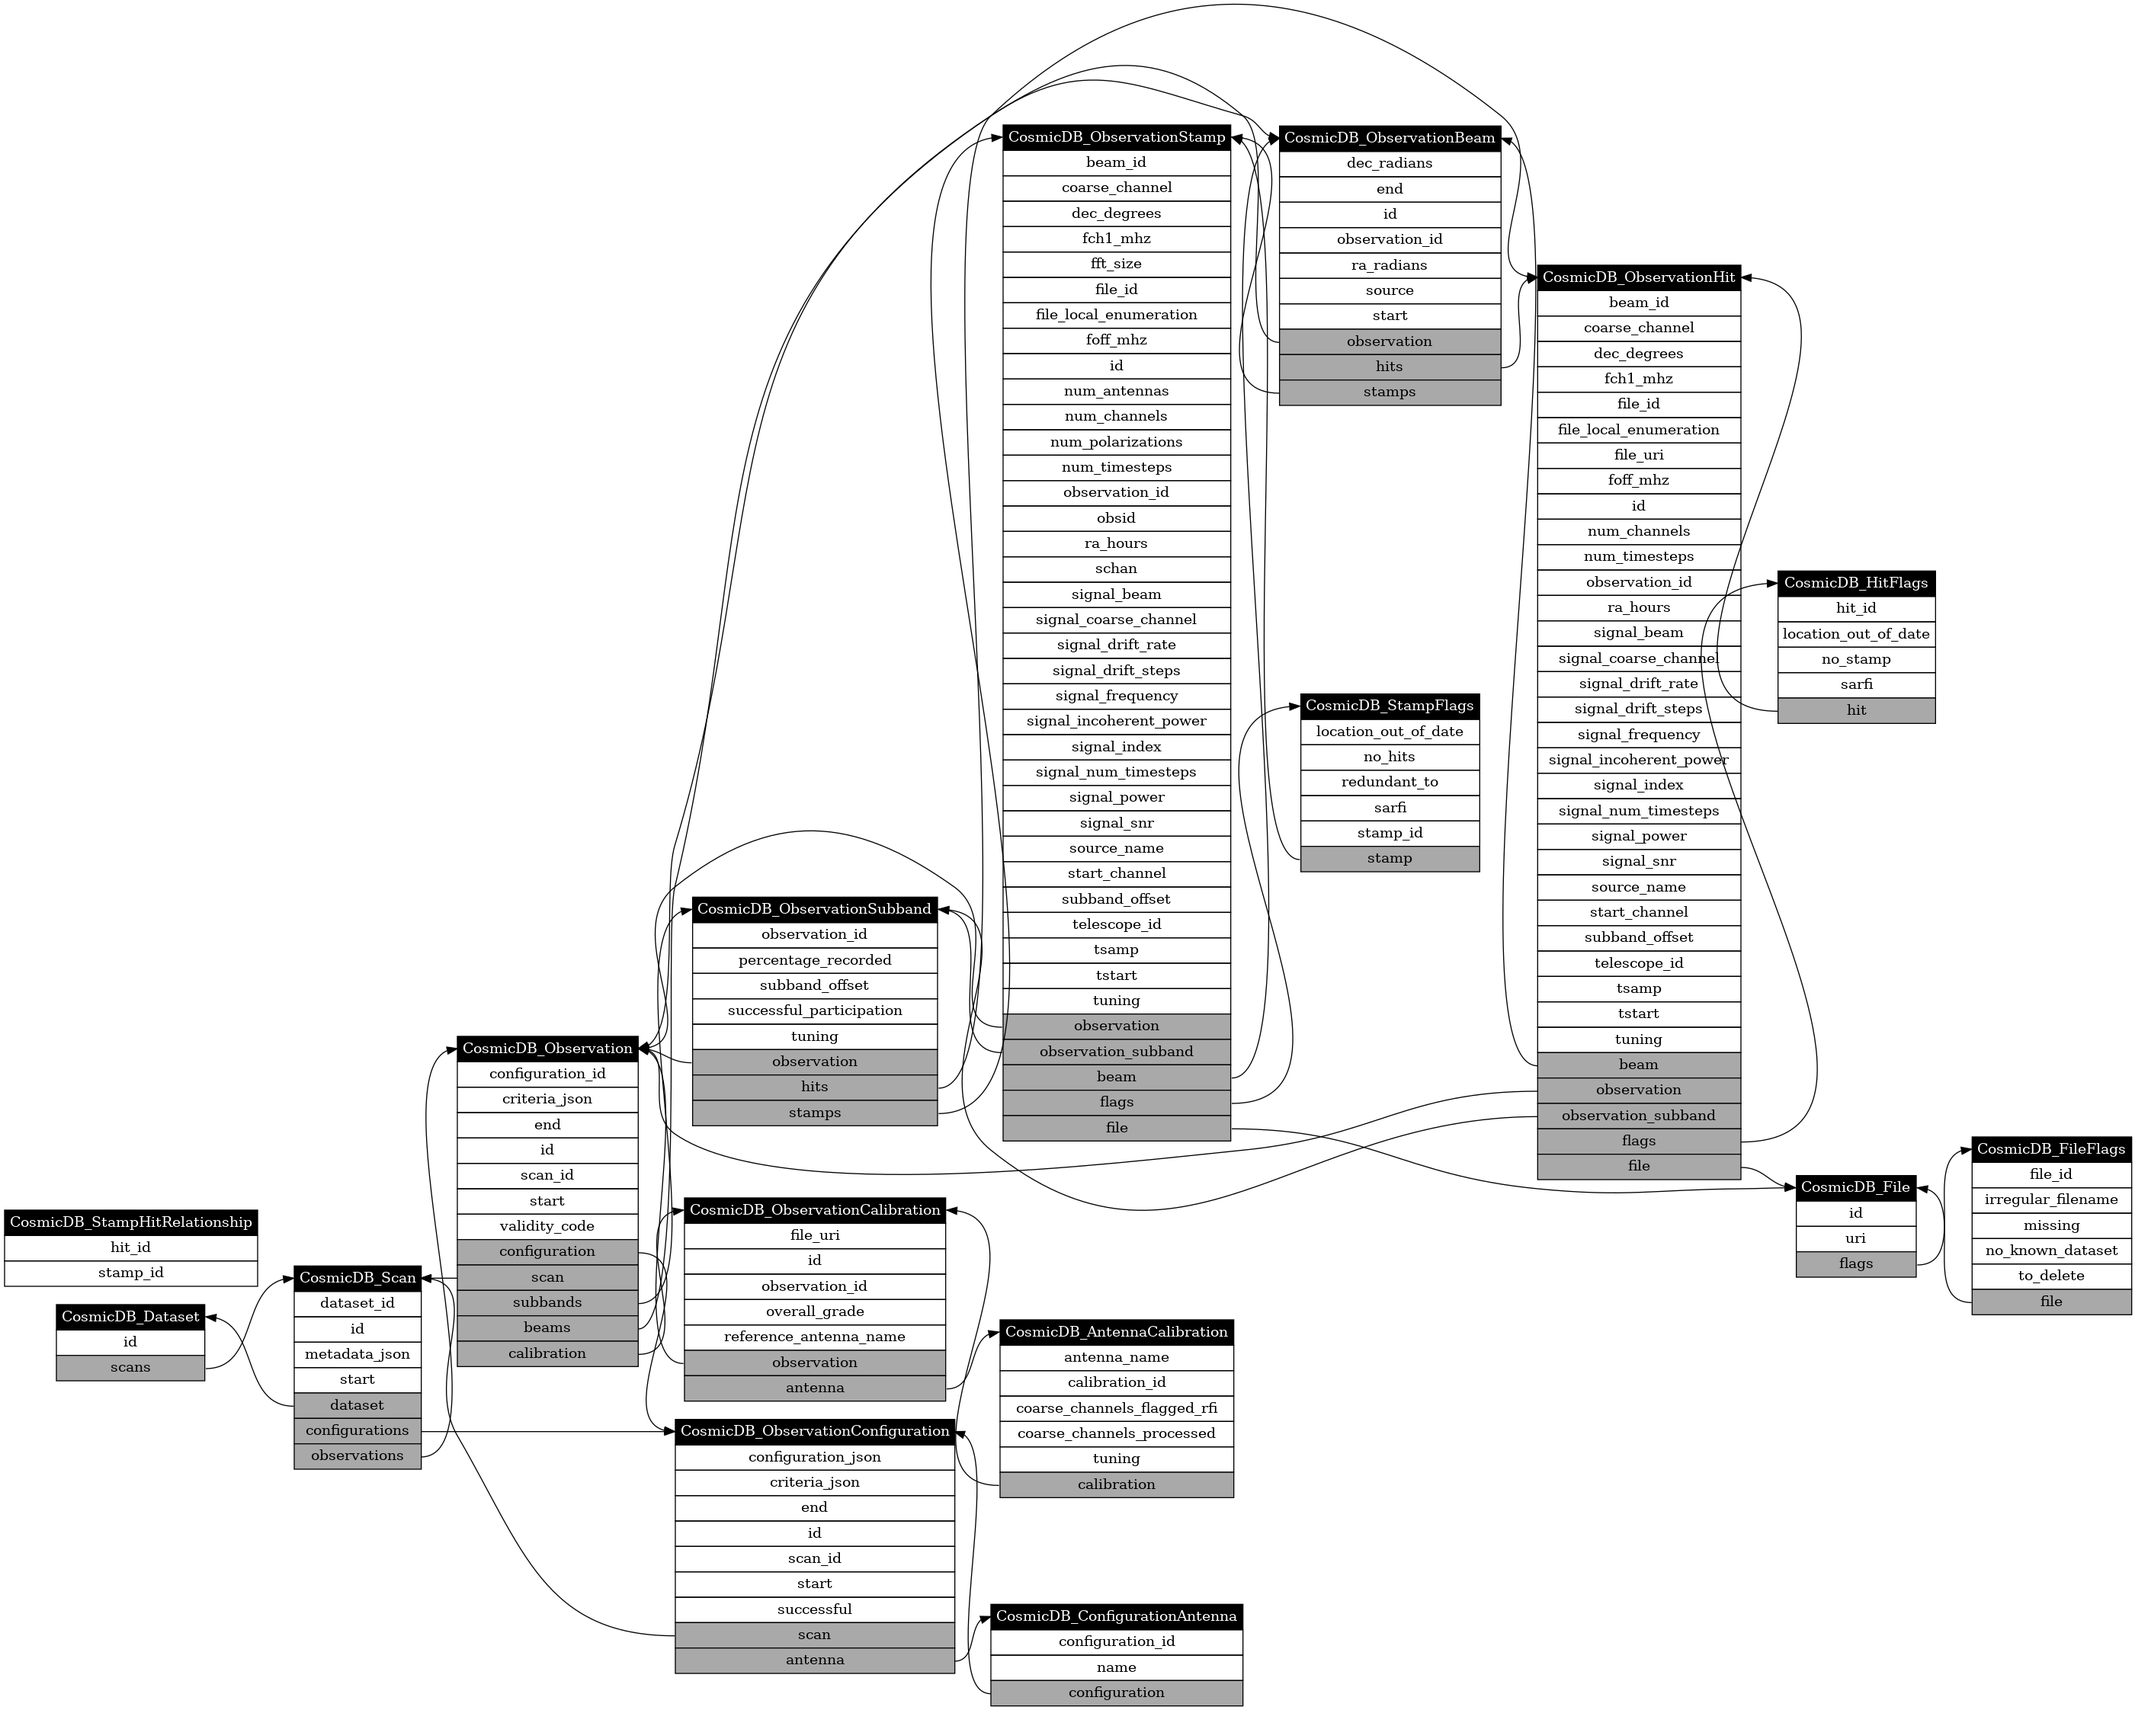
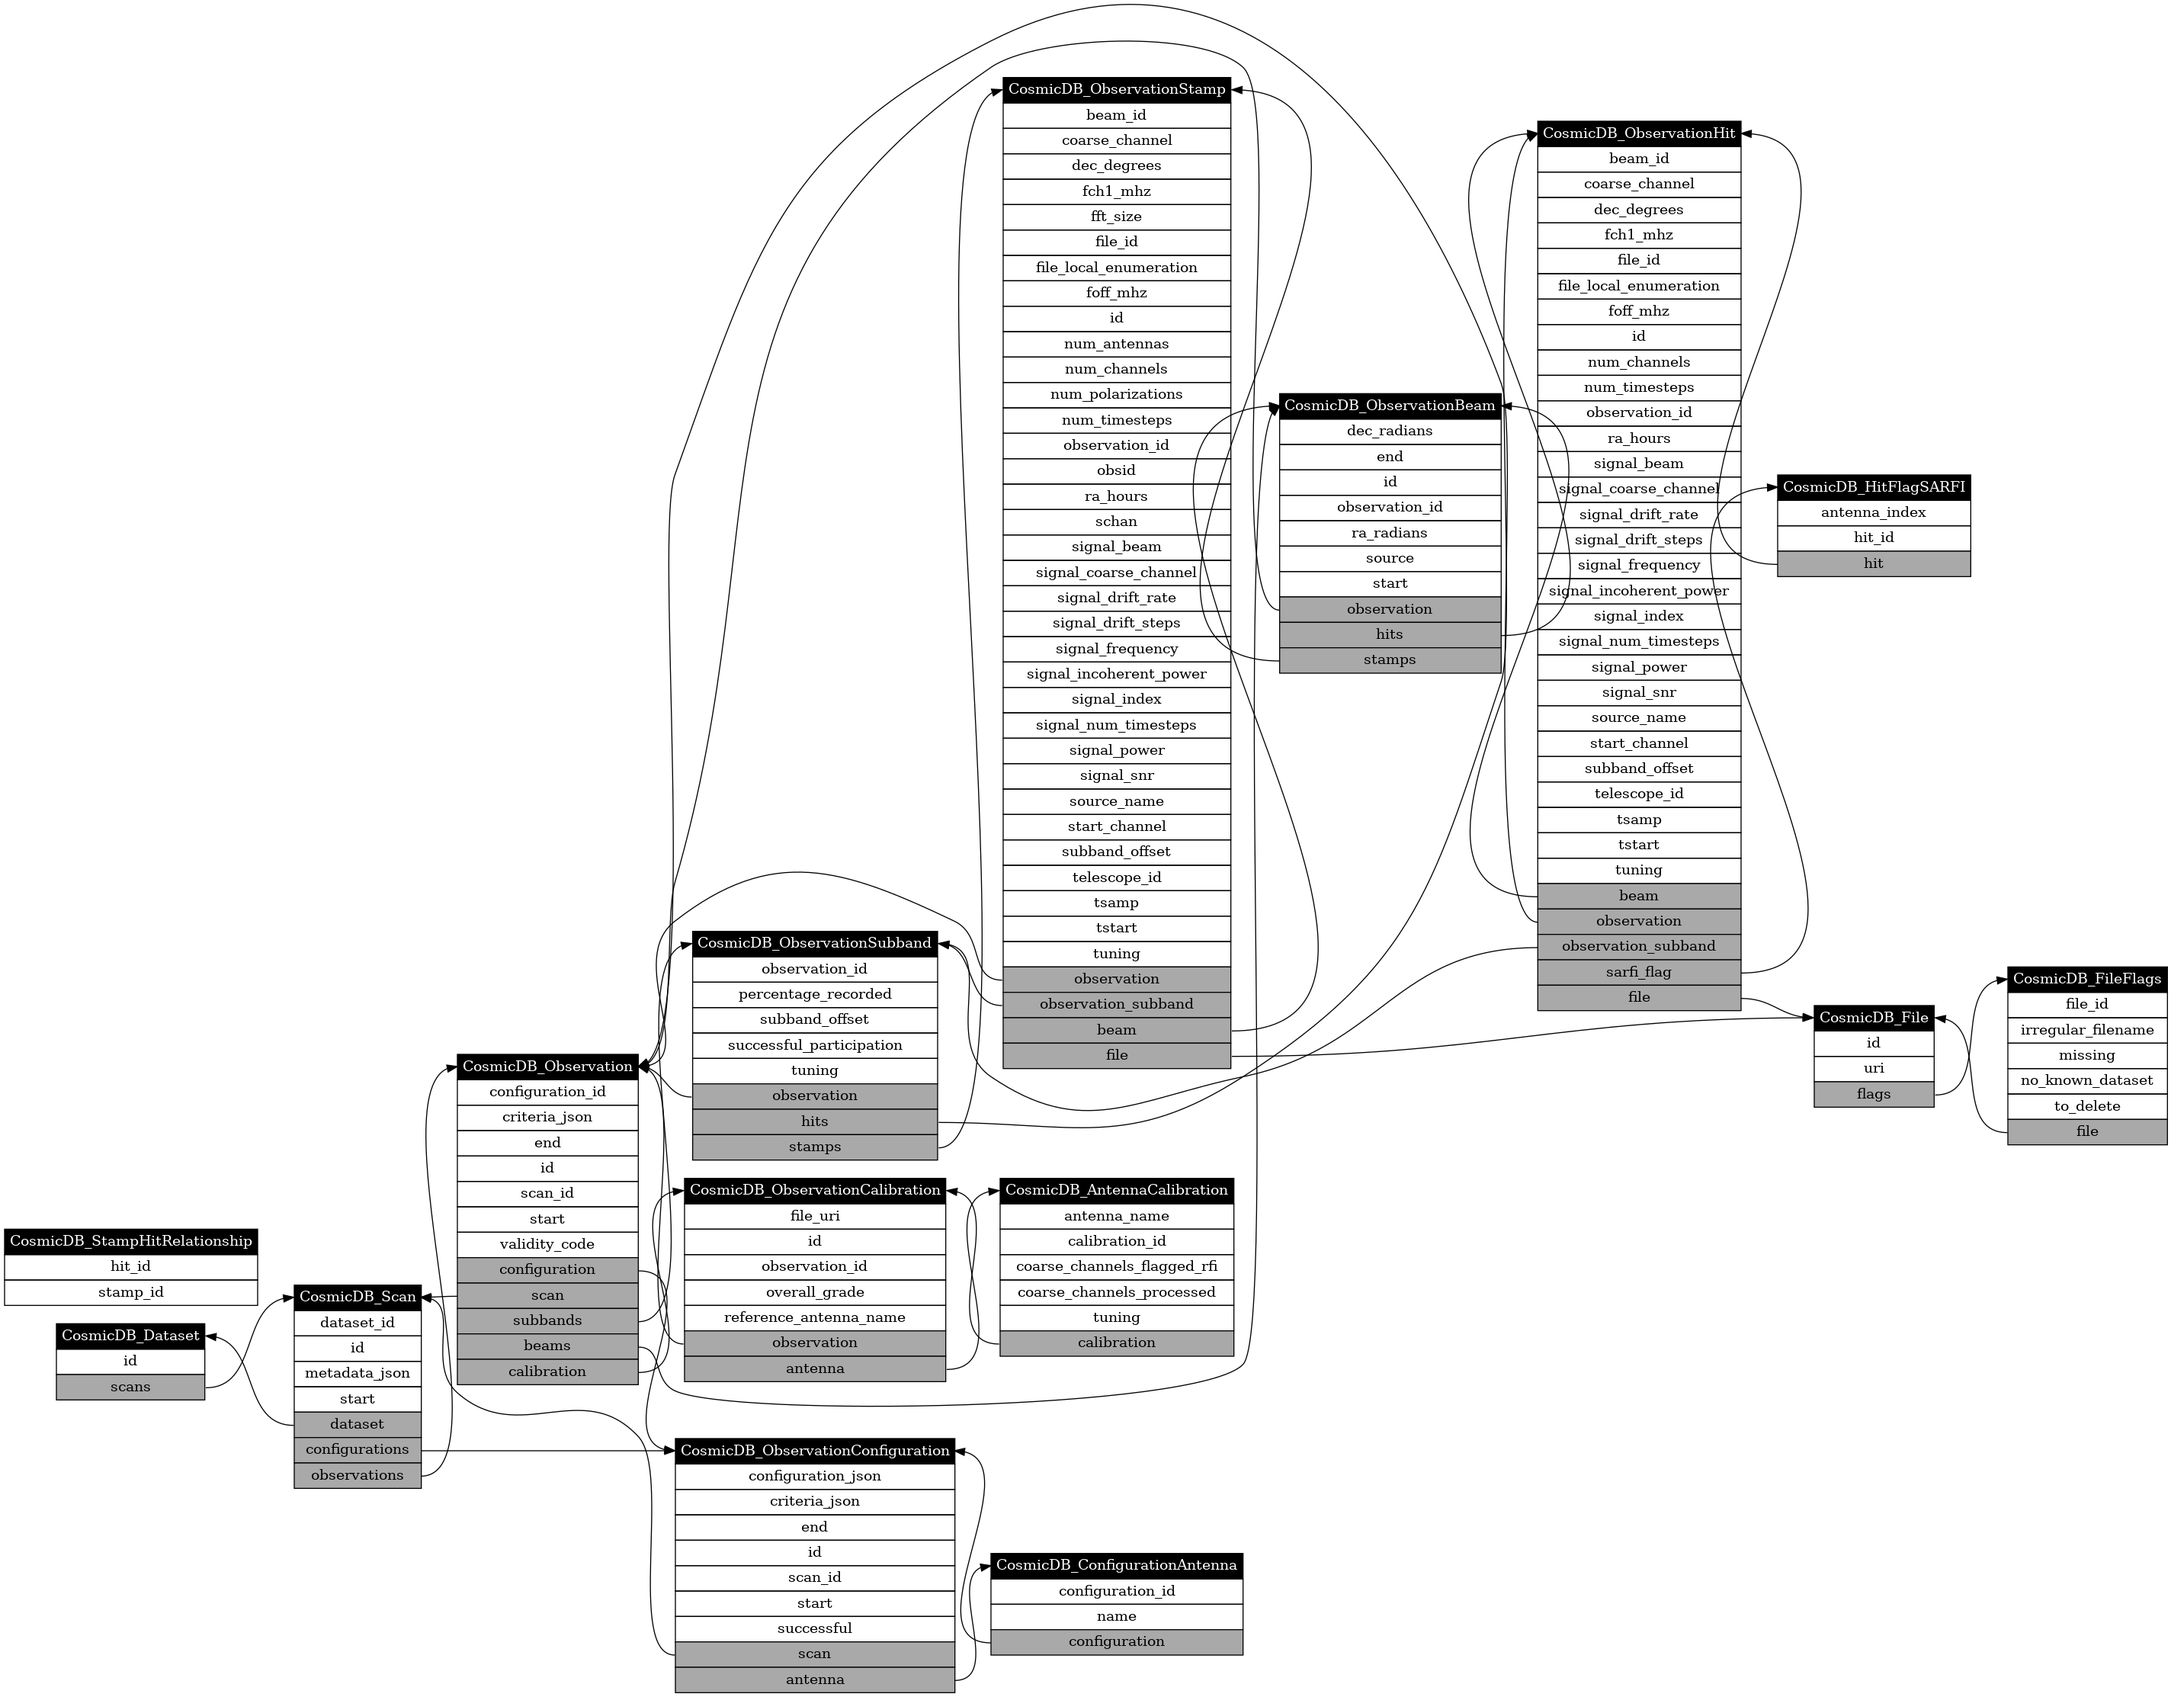
*= docs update, ~ Hit.file_uri

Changed region(s): [[0.0, 0.031, 1.0, 1.0], [0.6212, 0.6509, 0.6523, 0.6819]]

diff --git a/src/cosmic_database/entities.py b/src/cosmic_database/entities.py
@@ -336,8 +336,6 @@ class CosmicDB_ObservationHit(Base):
     subband_offset: Mapped[int]
 
     file_id: Mapped[Optional[int]] = mapped_column(ForeignKey(f"cosmic_file{TABLE_SUFFIX}.id"), nullable=True, index=True)
-    # storage filepath
-    file_uri: Mapped[Optional[String_URI]]
     # stamp index within file
     file_local_enumeration: Mapped[int]
 

diff --git a/docs/classes.md b/docs/classes.md
@@ -102,29 +102,15 @@ coarse_channels_flagged_rfi | `int`
 coarse_channels_processed | `int`
 tuning | `str`
 calibration | [CosmicDB_ObservationCalibration](#class-cosmicdb_observationcalibration)
-# Class `CosmicDB_HitFlags`
+# Class `CosmicDB_HitFlagSARFI`
 
-Table [`cosmic_hit_flags`](./tables.md#table-cosmic_hit_flags)
+Table [`cosmic_hit_flag_sarfi`](./tables.md#table-cosmic_hit_flag_sarfi)
 
 Attribute | Type
 -|-
+antenna_index | `int`
 hit_id | `int`
-location_out_of_date | `bool`
-no_stamp | `bool`
-sarfi | `bool`
 hit | [CosmicDB_ObservationHit](#class-cosmicdb_observationhit)
-# Class `CosmicDB_StampFlags`
-
-Table [`cosmic_stamp_flags`](./tables.md#table-cosmic_stamp_flags)
-
-Attribute | Type
--|-
-location_out_of_date | `bool`
-no_hits | `bool`
-redundant_to | `int`
-sarfi | `bool`
-stamp_id | `int`
-stamp | [CosmicDB_ObservationStamp](#class-cosmicdb_observationstamp)
 # Class `CosmicDB_StampHitRelationship`
 
 Table [`cosmic_stamp_hit_relationship`](./tables.md#table-cosmic_stamp_hit_relationship)
@@ -182,7 +168,6 @@ dec_degrees | `float`
 fch1_mhz | `float`
 file_id | `int`
 file_local_enumeration | `int`
-file_uri | `str`
 foff_mhz | `float`
 id | `int`
 num_channels | `int`
@@ -209,7 +194,7 @@ tuning | `str`
 beam | [CosmicDB_ObservationBeam](#class-cosmicdb_observationbeam)
 observation | [CosmicDB_Observation](#class-cosmicdb_observation)
 observation_subband | [CosmicDB_ObservationSubband](#class-cosmicdb_observationsubband)
-flags | [CosmicDB_HitFlags](#class-cosmicdb_hitflags)
+sarfi_flag | [CosmicDB_HitFlagSARFI](#class-cosmicdb_hitflagsarfi)
 file | [CosmicDB_File](#class-cosmicdb_file)
 # Class `CosmicDB_ObservationStamp`
 
@@ -254,5 +239,4 @@ tuning | `str`
 observation | [CosmicDB_Observation](#class-cosmicdb_observation)
 observation_subband | [CosmicDB_ObservationSubband](#class-cosmicdb_observationsubband)
 beam | [CosmicDB_ObservationBeam](#class-cosmicdb_observationbeam)
-flags | [CosmicDB_StampFlags](#class-cosmicdb_stampflags)
 file | [CosmicDB_File](#class-cosmicdb_file)

diff --git a/docs/tables.md b/docs/tables.md
@@ -90,28 +90,14 @@ tuning | VARCHAR(10) | X |  |
 coarse_channels_processed | INTEGER |  |  | 
 coarse_channels_flagged_rfi | INTEGER |  |  | 
 
-# Table `cosmic_hit_flags`
+# Table `cosmic_hit_flag_sarfi`
 
-Class [`cosmic_database.entities.CosmicDB_HitFlags`](./classes.md#class-CosmicDB_HitFlags)
+Class [`cosmic_database.entities.CosmicDB_HitFlagSARFI`](./classes.md#class-CosmicDB_HitFlagSARFI)
 
 Column | Type | Primary Key | Foreign Key(s) | Nullable
 -|-|-|-|-
 hit_id | INTEGER | X | [cosmic_observation_hit](#table-cosmic_observation_hit).id | 
-sarfi | BOOLEAN |  |  | X
-location_out_of_date | BOOLEAN |  |  | X
-no_stamp | BOOLEAN |  |  | X
-
-# Table `cosmic_stamp_flags`
-
-Class [`cosmic_database.entities.CosmicDB_StampFlags`](./classes.md#class-CosmicDB_StampFlags)
-
-Column | Type | Primary Key | Foreign Key(s) | Nullable
--|-|-|-|-
-stamp_id | INTEGER | X | [cosmic_observation_stamp](#table-cosmic_observation_stamp).id | 
-sarfi | BOOLEAN |  |  | X
-location_out_of_date | BOOLEAN |  |  | X
-redundant_to | INTEGER |  | [cosmic_observation_stamp](#table-cosmic_observation_stamp).id | X
-no_hits | BOOLEAN |  |  | X
+antenna_index | INTEGER |  |  | 
 
 # Table `cosmic_stamp_hit_relationship`
 
@@ -169,7 +155,6 @@ observation_id | INTEGER |  | [cosmic_observation](#table-cosmic_observation).id
 tuning | VARCHAR(10) |  | [cosmic_observation_subband](#table-cosmic_observation_subband).tuning | 
 subband_offset | INTEGER |  | [cosmic_observation_subband](#table-cosmic_observation_subband).subband_offset | 
 file_id | INTEGER |  | [cosmic_file](#table-cosmic_file).id | X
-file_uri | VARCHAR(255) |  |  | X
 file_local_enumeration | INTEGER |  |  | 
 signal_frequency | DOUBLE |  |  | 
 signal_index | INTEGER |  |  | 
